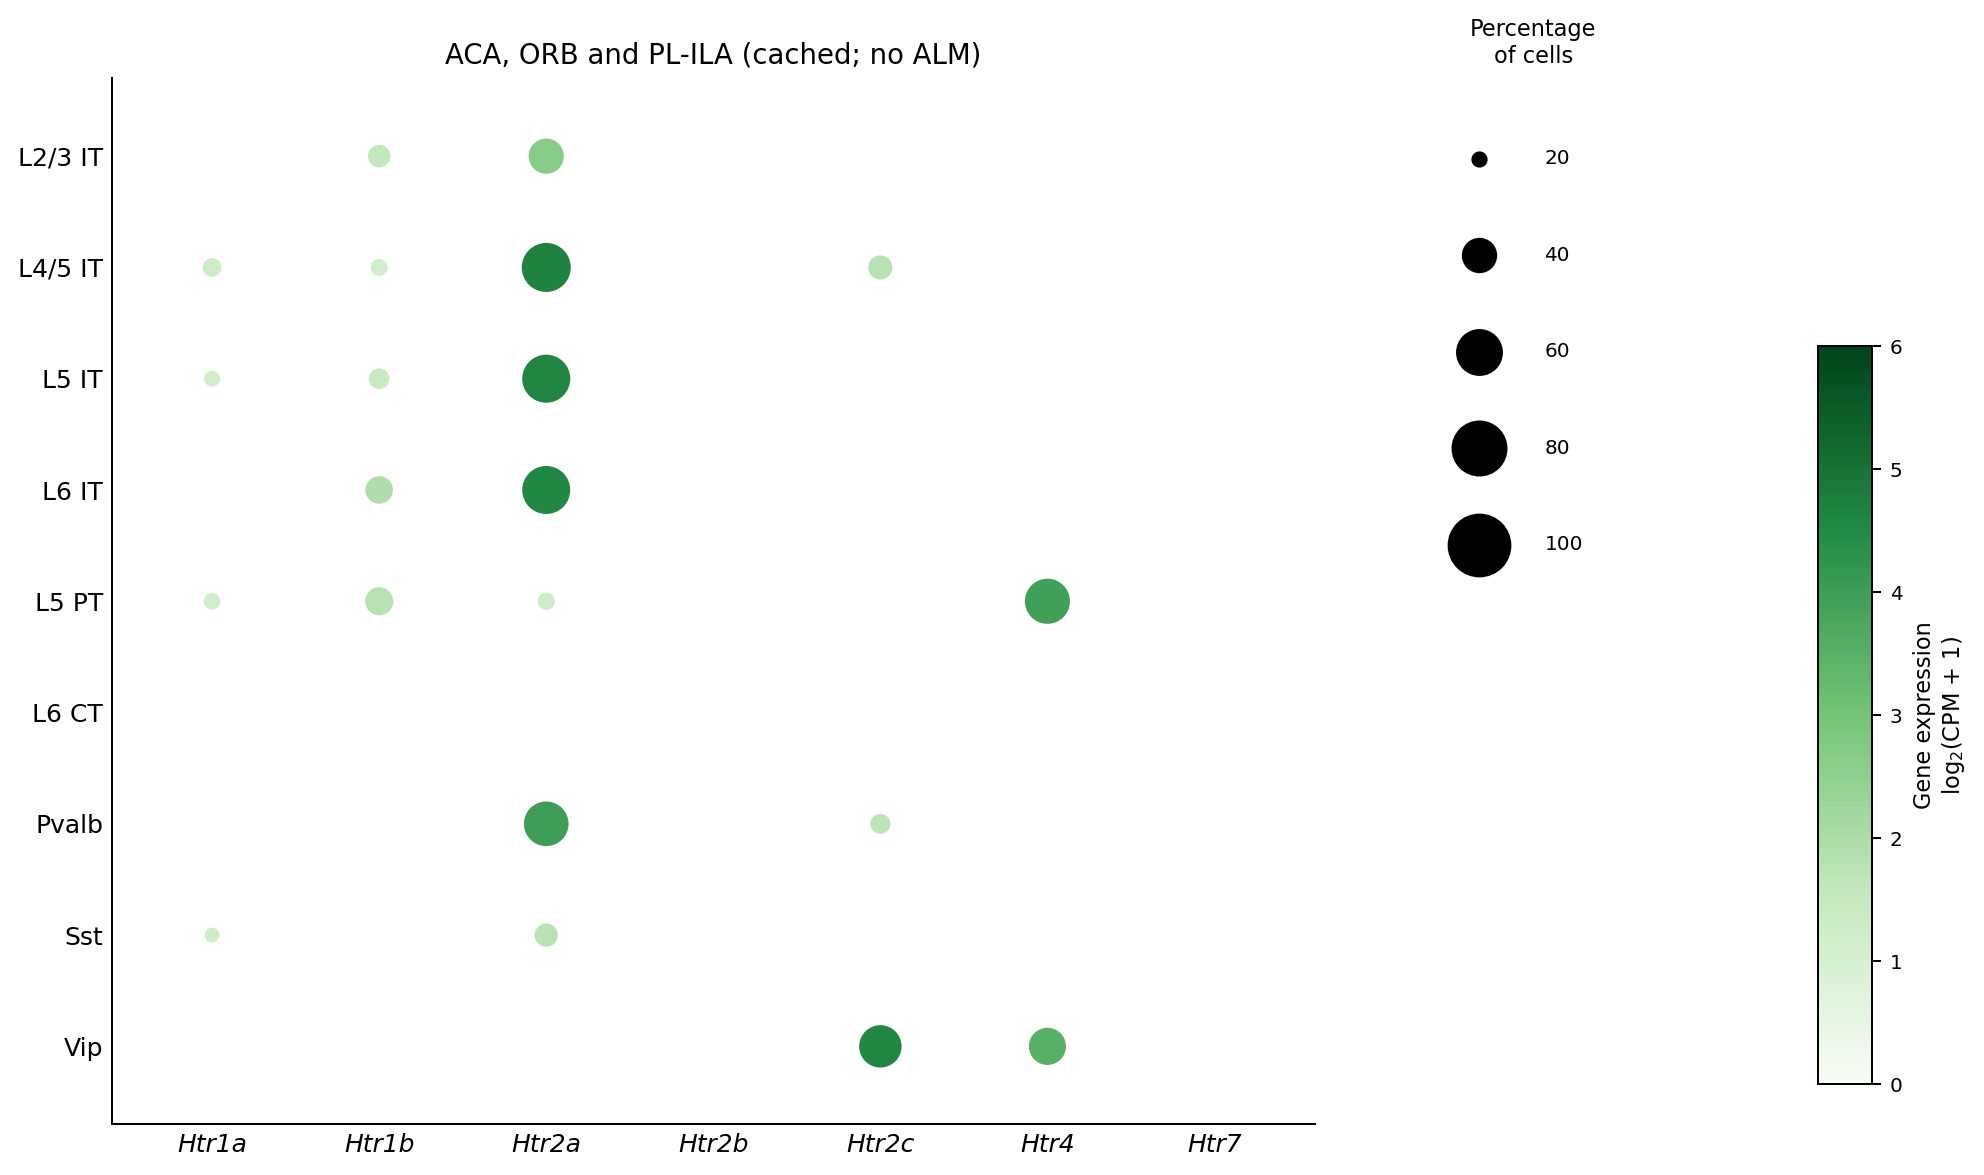
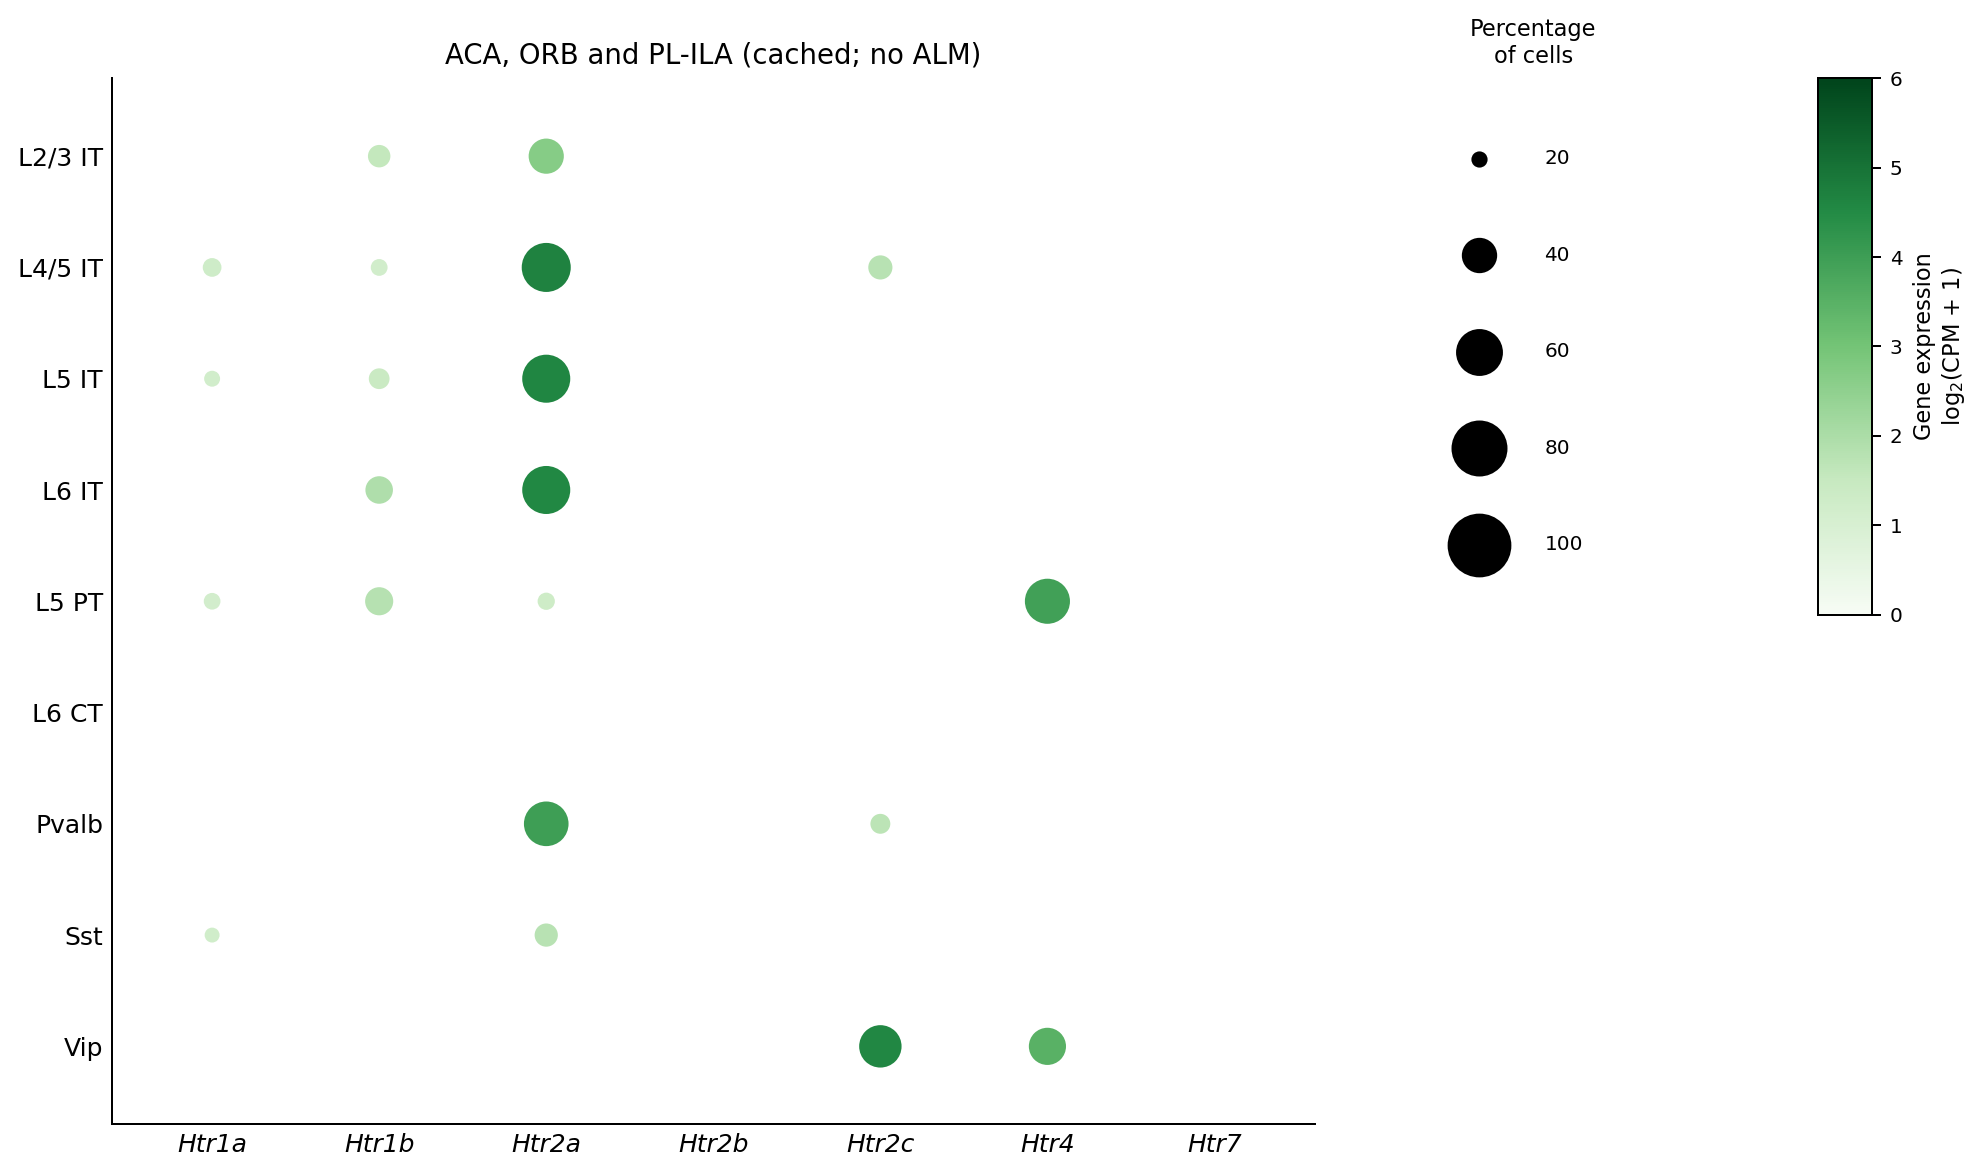
Align colorbar with percentage-of-cells legend

Changed region(s): [[0.9062, 0.0613, 1.0, 0.8885]]

diff --git a/notebooks/regenerate_xiao_comparison_dotplot.py b/notebooks/regenerate_xiao_comparison_dotplot.py
@@ -157,7 +157,7 @@ def main():
         size_ax.text(0.55, y, f'{pct}', va='center', fontsize=8)
 
     # Color bar (right column, bottom half)
-    cbar_ax = fig.add_axes([0.88, 0.15, 0.025, 0.55])
+    cbar_ax = fig.add_axes([0.88, 0.50, 0.025, 0.40])
     sm = plt.cm.ScalarMappable(cmap=cmap, norm=norm)
     cbar = fig.colorbar(sm, cax=cbar_ax)
     cbar.set_label('Gene expression\nlog$_2$(CPM + 1)', fontsize=9)
